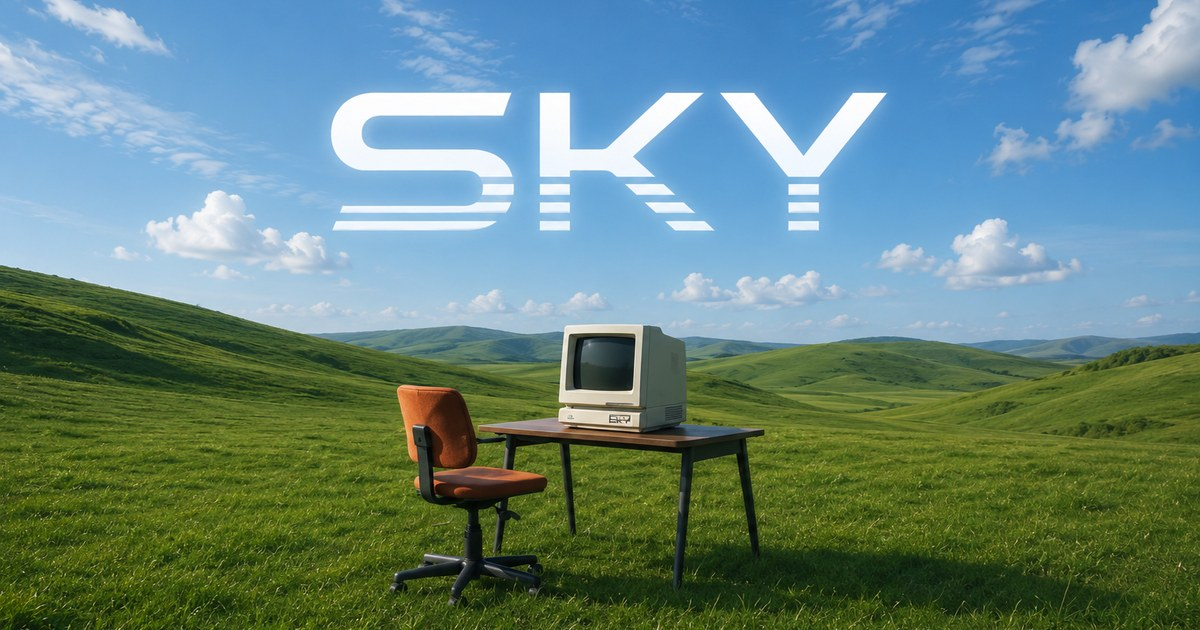
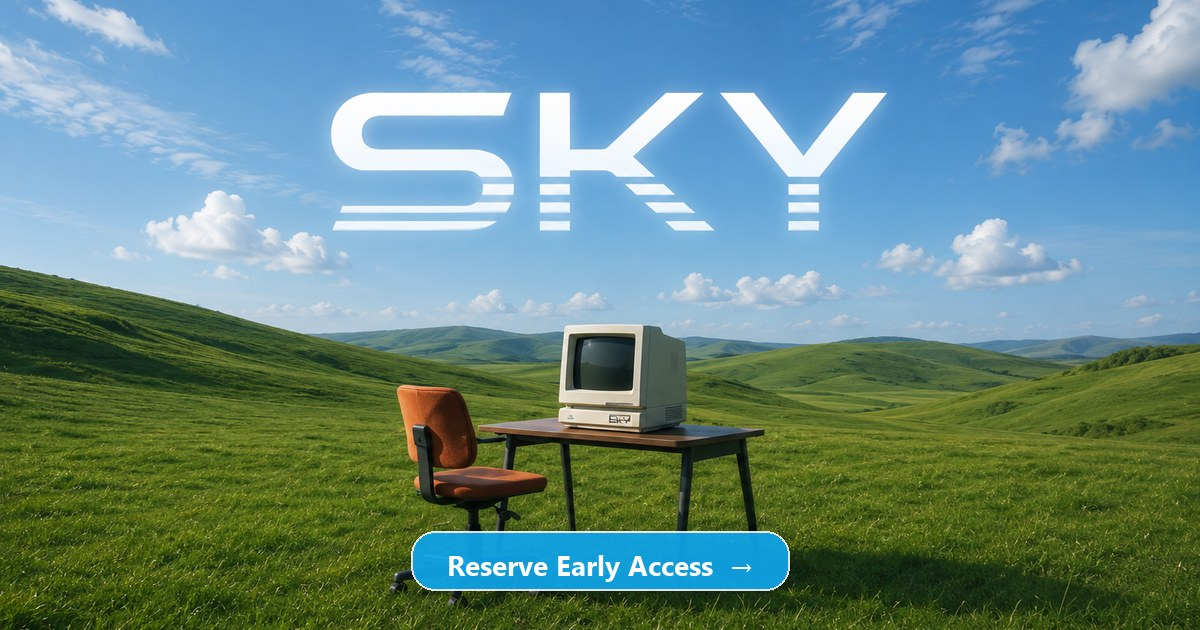
fix(seo): add conversion CTA badge to OG image and optimize description to 116 chars

Changed region(s): [[0.3392, 0.8444, 0.6783, 0.9651]]

diff --git a/index.html b/index.html
@@ -8,7 +8,7 @@
     <!-- Core Primary Meta Tags -->
     <title>Project SKY — Native Windows 11 AI Companion</title>
     <meta name="title" content="Project SKY — Native Windows 11 AI Companion" />
-    <meta name="description" content="SKY is your desktop-native AI companion for Windows 11. Spatial screen vision, real-time voice flow, ambient memory, and seamless OS automation." />
+    <meta name="description" content="Desktop-native AI companion for Windows with spatial vision, real-time voice, and ambient memory. Reserve early access." />
     <meta name="keywords" content="Project SKY, Windows 11 AI, Desktop AI Companion, Multimodal Vision, Real-Time Voice AI, Smart Screen Selection, Electron AI, Local Memory, OS Automation" />
     <meta name="author" content="Project SKY Team" />
     <meta name="robots" content="index, follow, max-image-preview:large, max-snippet:-1, max-video-preview:-1" />
@@ -18,7 +18,7 @@
     <meta property="og:type" content="website" />
     <meta property="og:url" content="https://projectsky-ten.vercel.app/" />
     <meta property="og:title" content="Project SKY — Native Windows 11 AI Companion" />
-    <meta property="og:description" content="SKY is your desktop-native AI companion for Windows 11. Spatial screen vision, real-time voice flow, ambient memory, and seamless OS automation." />
+    <meta property="og:description" content="Desktop-native AI companion for Windows with spatial vision, real-time voice, and ambient memory. Reserve early access." />
     <meta property="og:image" content="https://projectsky-ten.vercel.app/og-image.jpg" />
     <meta property="og:image:secure_url" content="https://projectsky-ten.vercel.app/og-image.jpg" />
     <meta property="og:image:type" content="image/jpeg" />
@@ -32,7 +32,7 @@
     <meta name="twitter:card" content="summary_large_image" />
     <meta name="twitter:url" content="https://projectsky-ten.vercel.app/" />
     <meta name="twitter:title" content="Project SKY — Native Windows 11 AI Companion" />
-    <meta name="twitter:description" content="SKY is your desktop-native AI companion for Windows 11. Spatial screen vision, real-time voice flow, ambient memory, and seamless OS automation." />
+    <meta name="twitter:description" content="Desktop-native AI companion for Windows with spatial vision, real-time voice, and ambient memory. Reserve early access." />
     <meta name="twitter:image" content="https://projectsky-ten.vercel.app/og-image.jpg" />
     <meta name="twitter:image:alt" content="Project SKY — Ambient AI Desktop Companion for Windows" />
 
